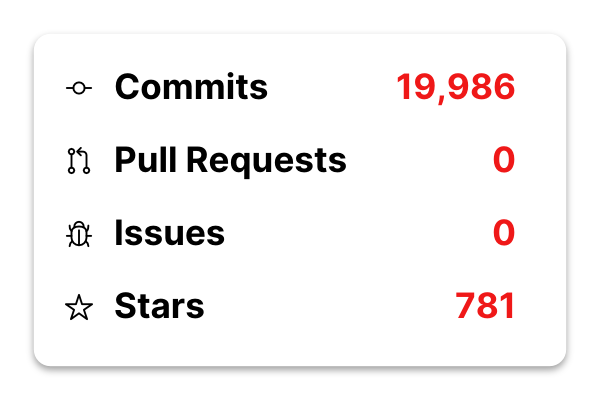
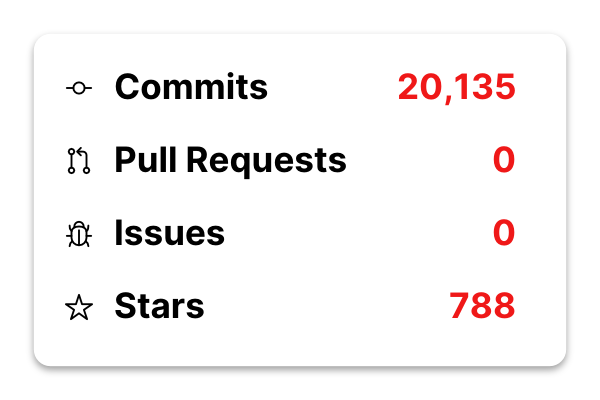
Update auto generated content

Changed region(s): [[0.66, 0.18, 0.87, 0.27], [0.75, 0.72, 0.87, 0.81]]

diff --git a/README.md b/README.md
@@ -42,5 +42,5 @@ Informational static site about human environmental impacts
 |![](assets/logos/laravel.png) [**Laravel-Validator-Pizza**](https://github.com/romanzipp/Laravel-Validator-Pizza)|7.2|5.5|![](assets/logos/check.png)|![](assets/logos/check.png)|![](assets/logos/check.png)|![](assets/logos/check.png)|
 
 
-![](https://img.shields.io/badge/19,986-black?style=for-the-badge&color=3053c6&label=Commits&labelColor=black)
-![](https://img.shields.io/badge/781-black?style=for-the-badge&color=3053c6&label=Stars&labelColor=black)
+![](https://img.shields.io/badge/20,135-black?style=for-the-badge&color=3053c6&label=Commits&labelColor=black)
+![](https://img.shields.io/badge/788-black?style=for-the-badge&color=3053c6&label=Stars&labelColor=black)
